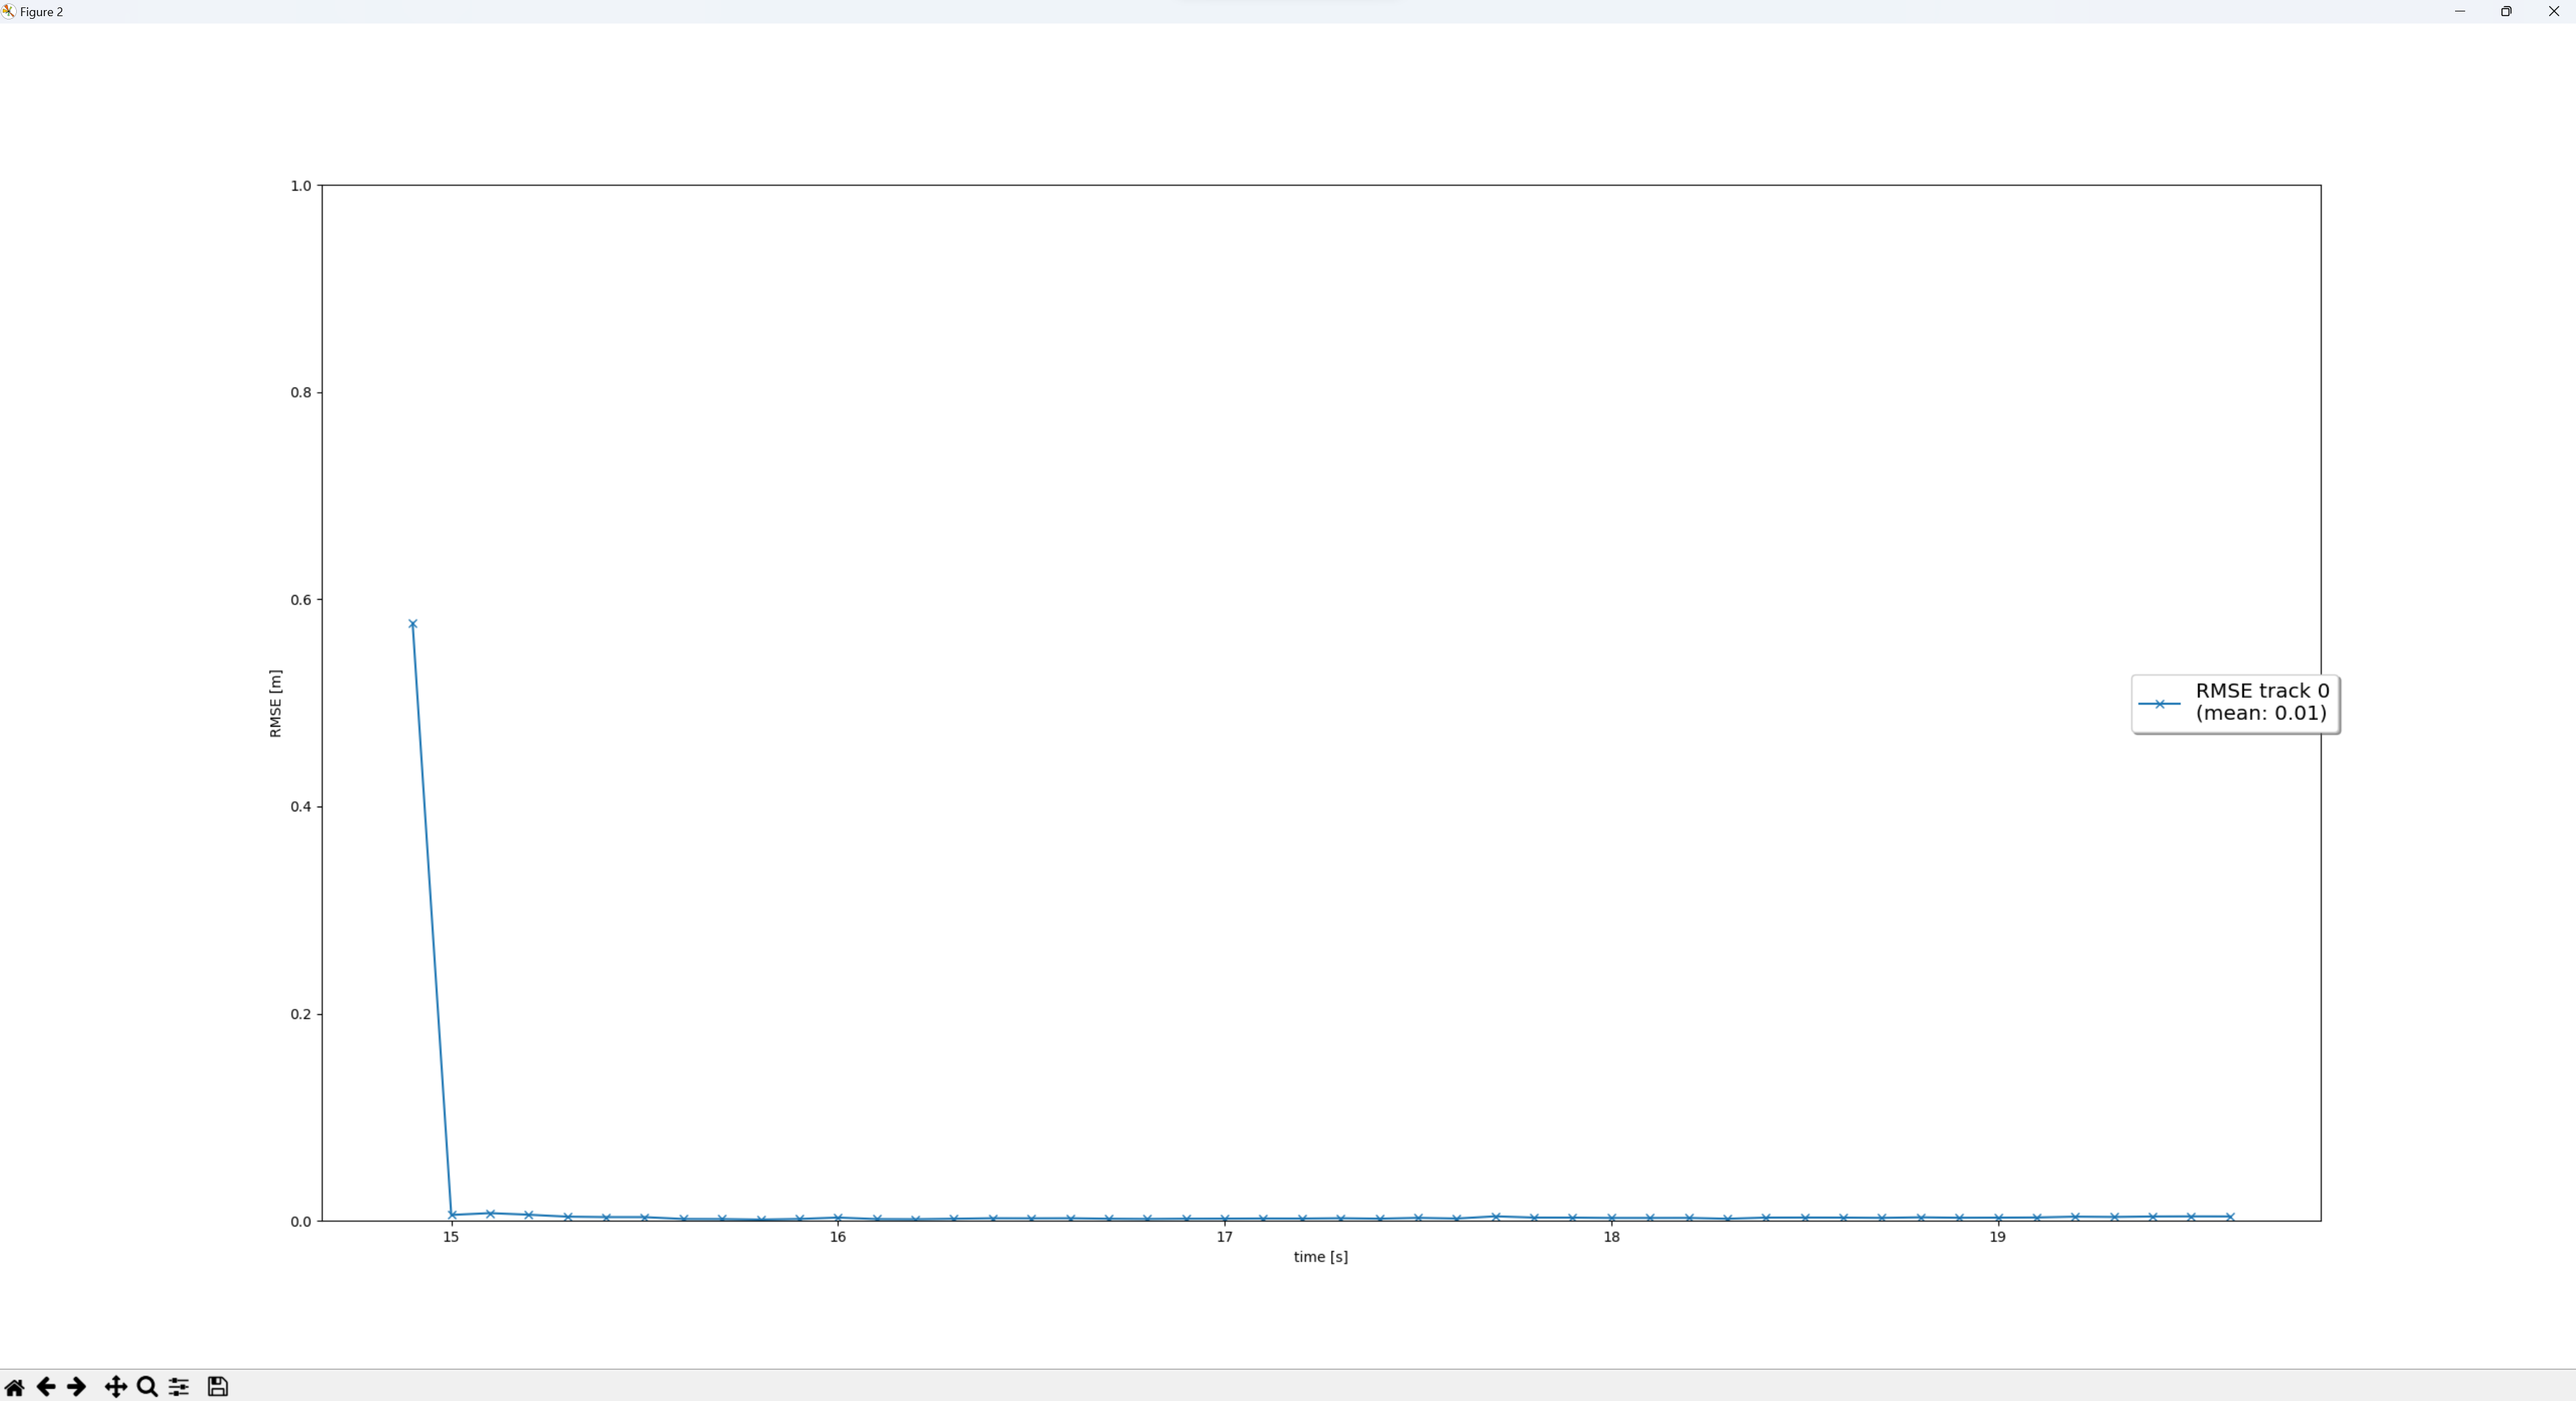
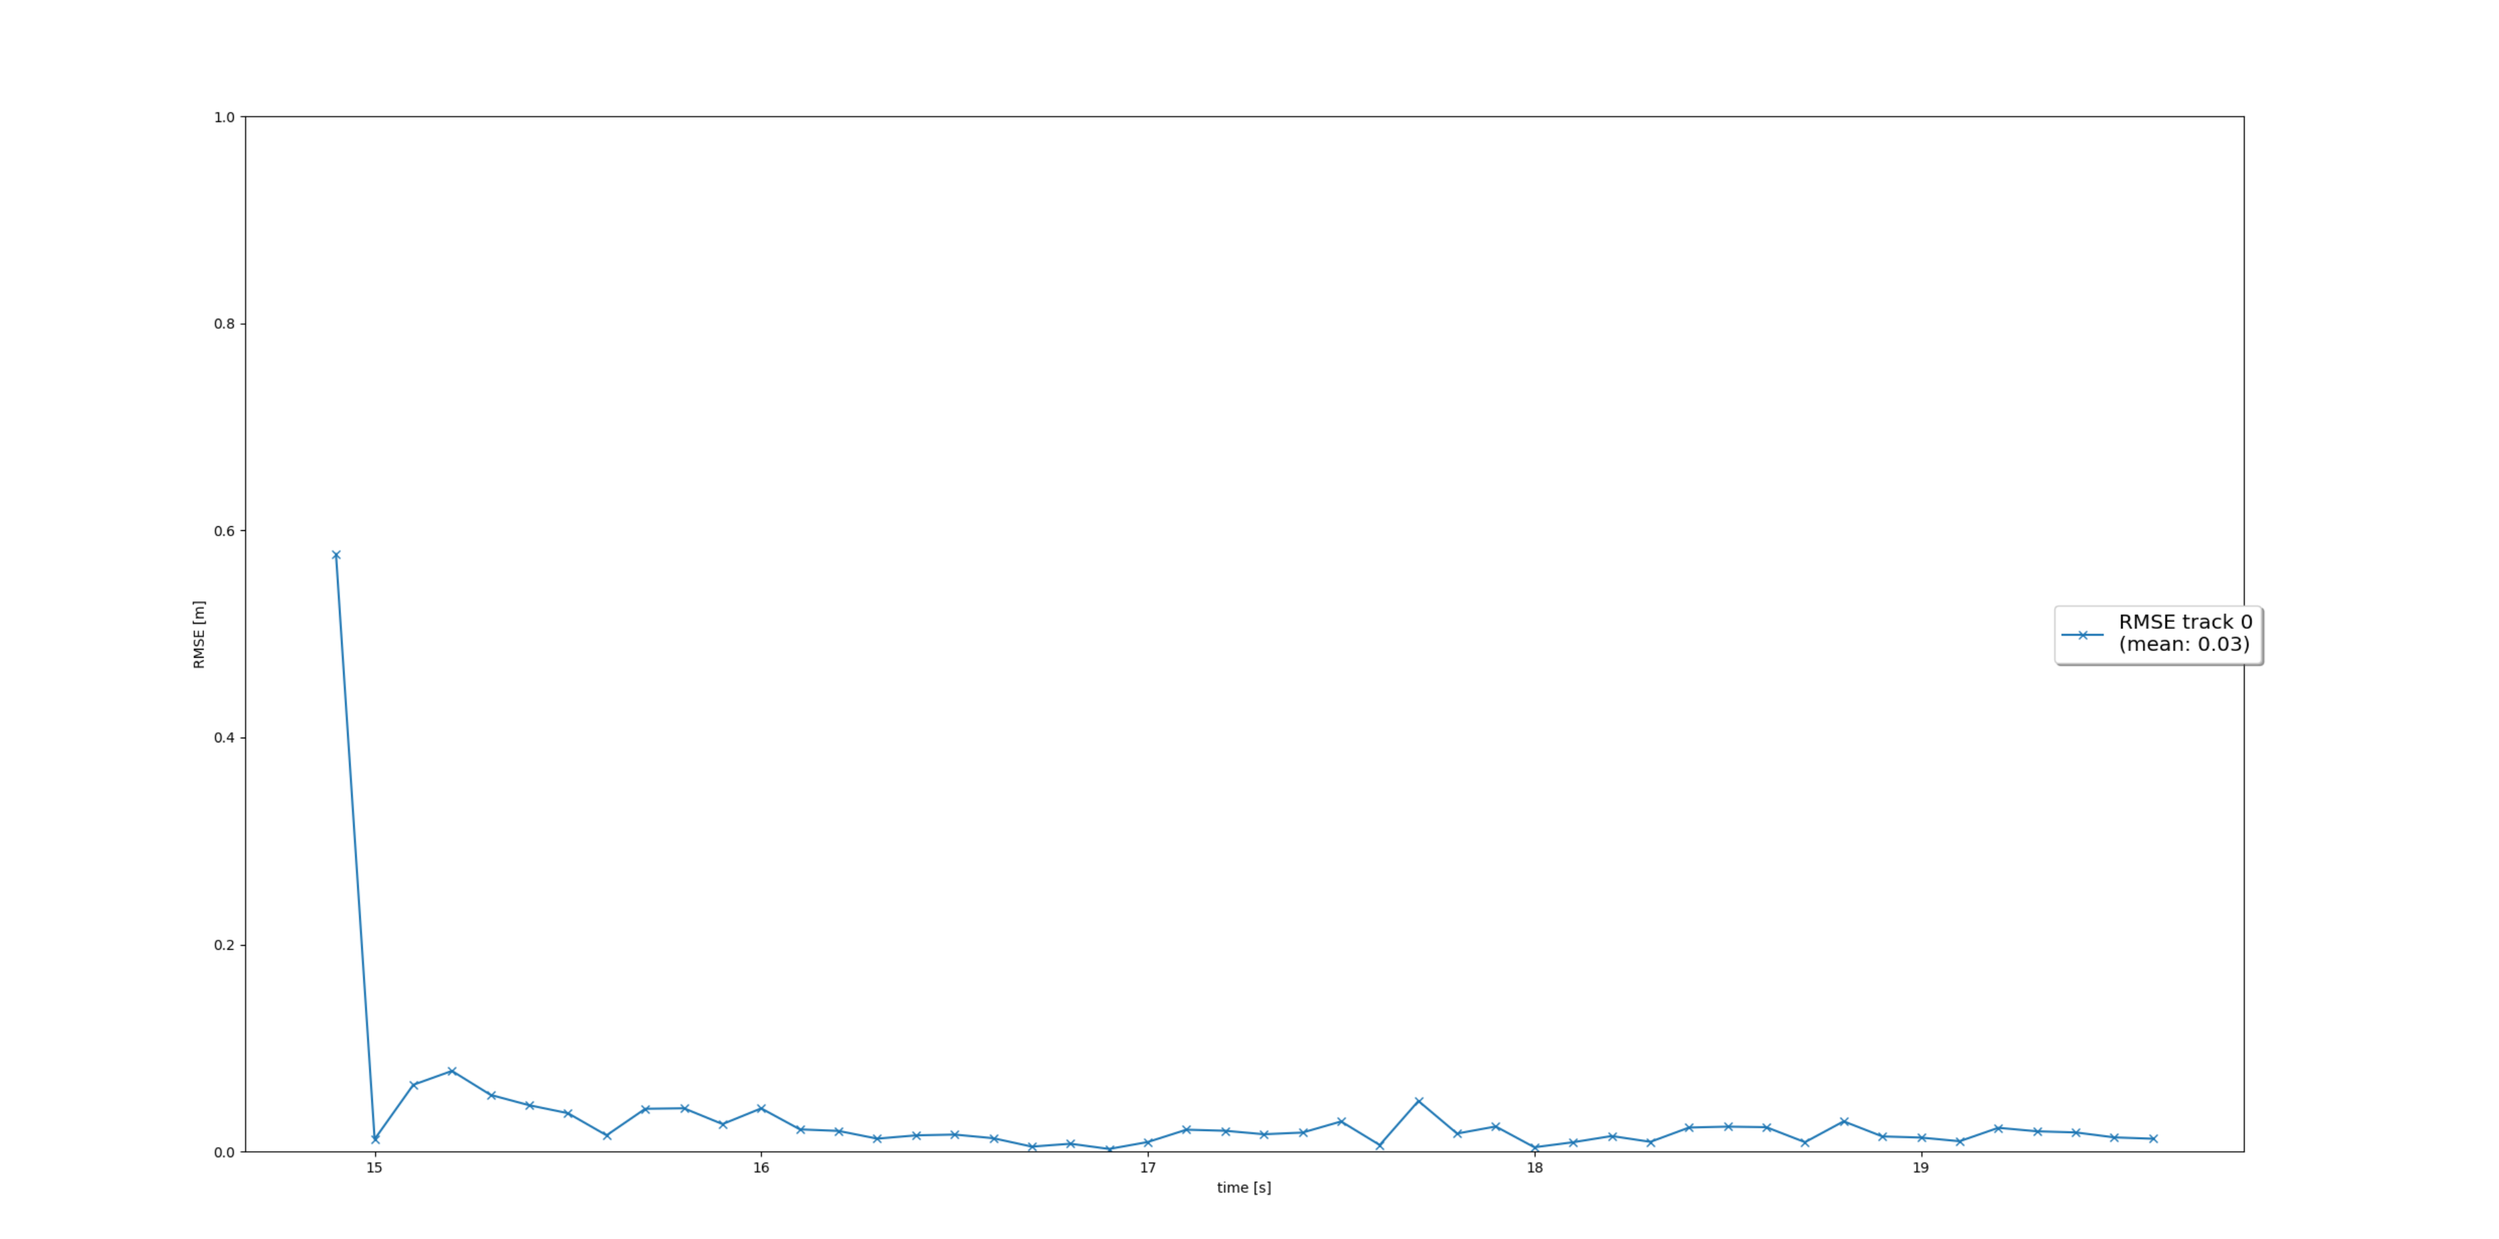
Update to Step 1

diff --git a/student/filter.py b/student/filter.py
@@ -52,12 +52,13 @@ class Filter:
         q1 = ((dt**3)/3) * q 
         q2 = ((dt**2)/2) * q 
         q3 = dt * q 
-        return np.matrix([[q3,0,0,q2,0,0],
-                         [0,q3,0,0,q2,0],
-                         [0,0,q3,0,0,q2],
-                         [q2,0,0,q1,0,0],
-                         [0,q2,0,0,q1,0],
-                         [0,0,q2,0,0,q1]])
+        return np.matrix([[q1, 0, 0, q2, 0, 0],
+                          [0, q1, 0, 0, q2, 0],
+                          [0, 0, q1, 0, 0, q2],
+                          [q2, 0, 0, q3, 0, 0],
+                          [0, q2, 0, 0, q3, 0],
+                          [0, 0, q2, 0, 0, q3]])
+
         
         ############
         # END student code
